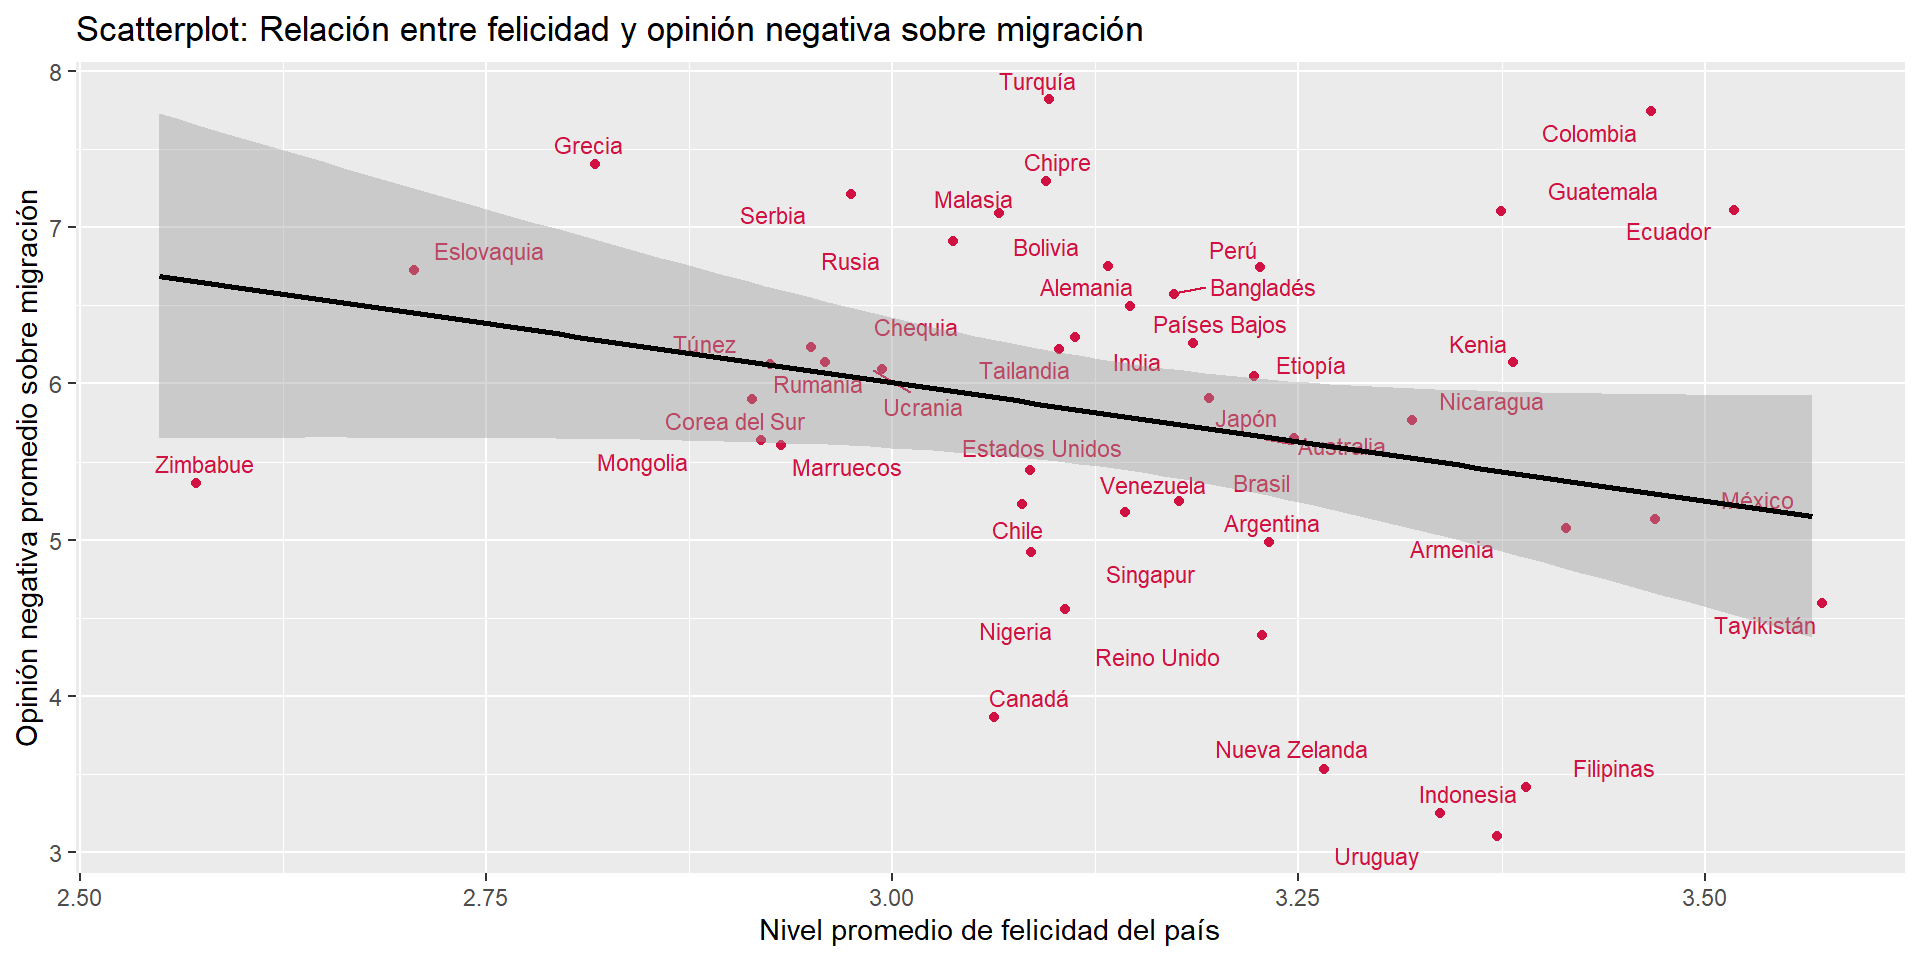
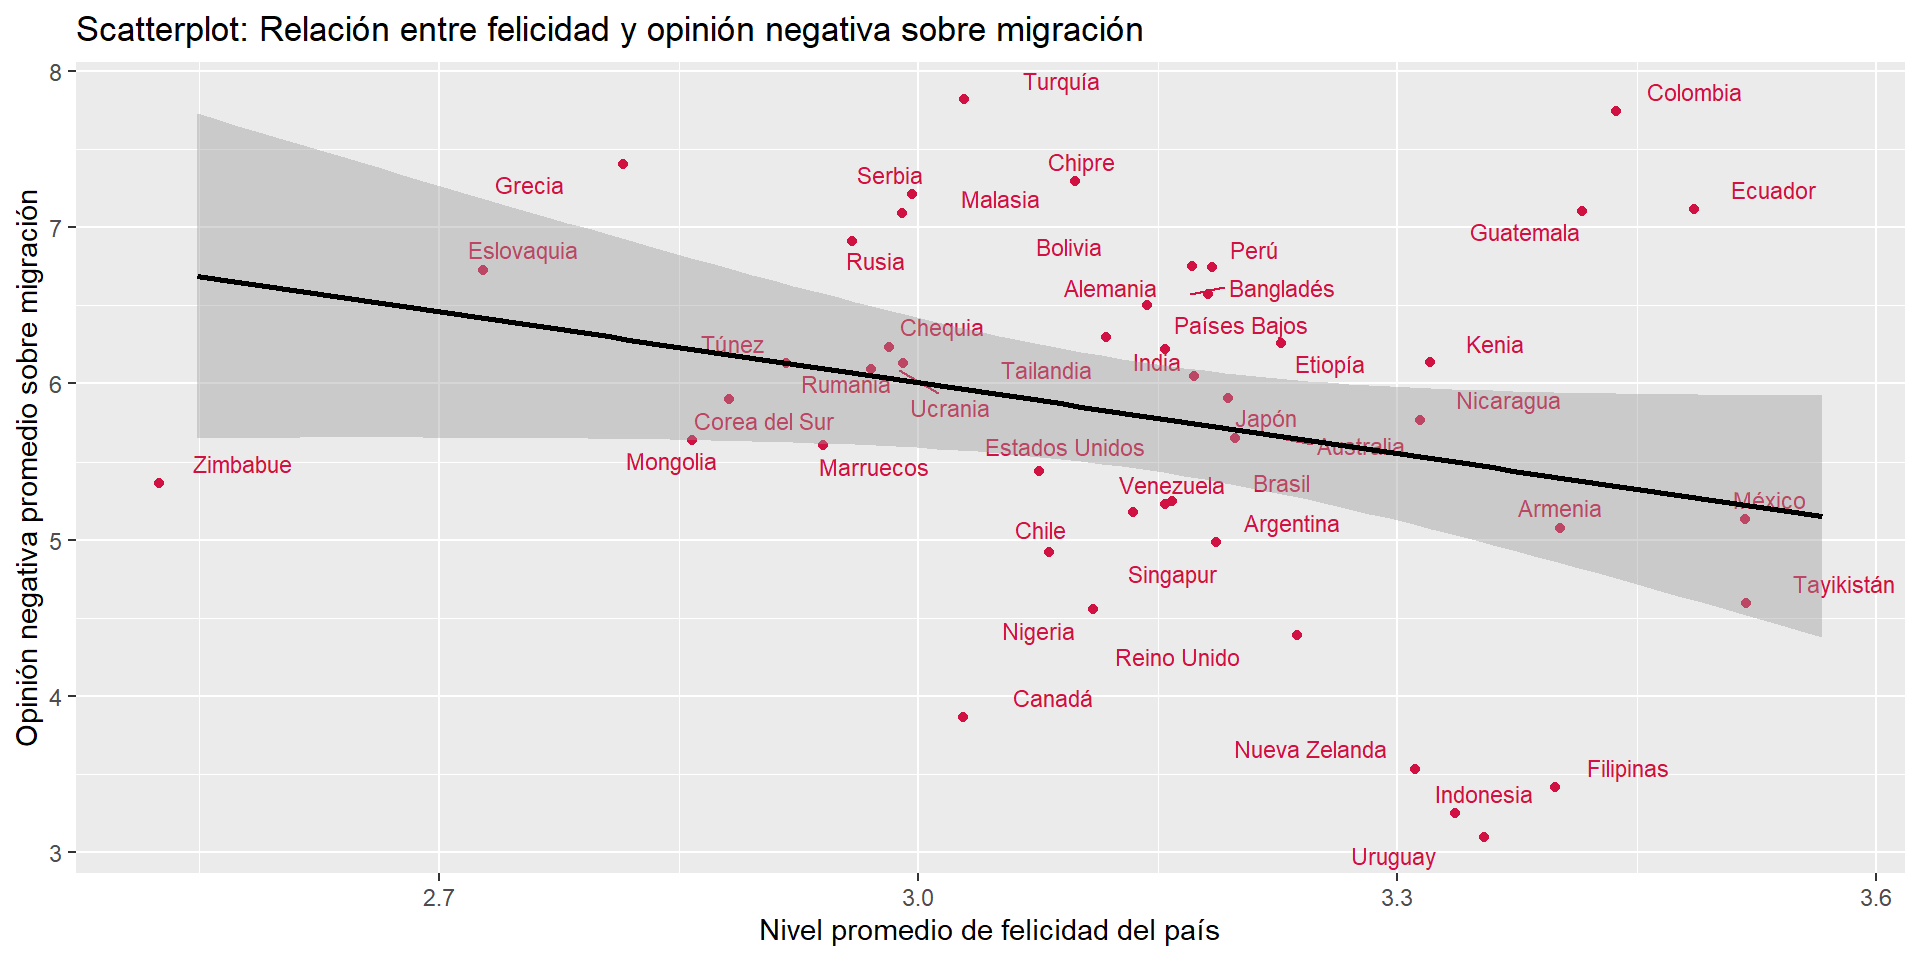
presentacion conclusiones

diff --git a/presentations/presentacion.html b/presentations/presentacion.html
@@ -1466,10 +1466,10 @@ meanschooling
 <section id="interacción" class="slide level2">
 <h2>Interacción</h2>
 <div class="columns">
-<div class="column" style="width:80%;">
+<div class="column" style="width:60%;">
 <p><img data-src="presentacion_files/figure-revealjs/unnamed-chunk-10-1.png" width="960"></p>
-</div><div class="column" style="width:20%;">
-<p>La interacción muestra que…</p>
+</div><div class="column" style="width:40%;">
+<p>La interacción muestra una pequeña variabilidad del efecto del nacionalismo respecto a la felicidad promedio del país, mostrando que en aquellos países más felices se atenua en comparativa a aquellos infelices el efecto de nacionalismo pero sin mucha diferencia.</p>
 </div></div>
 </section>
 <section id="casos-influyentes" class="slide level2">
@@ -1588,14 +1588,26 @@ meanschooling
 </tbody></table>
 </div>
 </section></section>
-<section>
 <section id="conclusiones" class="title-slide slide level1 center" data-background-color="#5f5758">
 <h1>Conclusiones</h1>
 <div>
 <ul>
-<li class="fragment">bla bla bla</li>
-<li class="fragment">bla bla</li>
-<li class="fragment">bla</li>
+<li class="fragment"><strong>Hipótesis 1:</strong> Se comprueba con significancia estadística, aunque con un efecto muy bajo.</li>
+<li class="fragment"><strong>Hipótesis 2:</strong> Se comprueba con significancia estadística, aunque con un efecto muy bajo.</li>
+<li class="fragment"><strong>Hipótesis 3:</strong> Se comprueba con significancia estadística; el efecto es bajo, pero mayor que el de las demás variables.</li>
+<li class="fragment"><strong>Hipótesis 4:</strong> Aunque se observa un efecto negativo, este es casi nulo y sin significancia estadística. La diferencia entre hombres y mujeres respecto a las opiniones sobre la migración es prácticamente inexistente.</li>
+</ul>
+</div>
+</section>
+
+<section>
+<section id="conclusiones-cont." class="title-slide slide level1 center" data-background-color="#5f5758">
+<h1>Conclusiones (cont.)</h1>
+<div>
+<ul>
+<li class="fragment"><strong>Hipótesis 5:</strong> Se comprueba, pero con un efecto muy bajo y sin significancia estadística.</li>
+<li class="fragment"><strong>Hipótesis 6:</strong> Se comprueba con un efecto importante y con significancia estadística.</li>
+<li class="fragment"><strong>Hipótesis 7:</strong> El promedio de felicidad del país atenúa levemente el efecto del nacionalismo, según el gráfico de interacción, pero pierde significancia estadística.</li>
 </ul>
 </div>
 </section>
